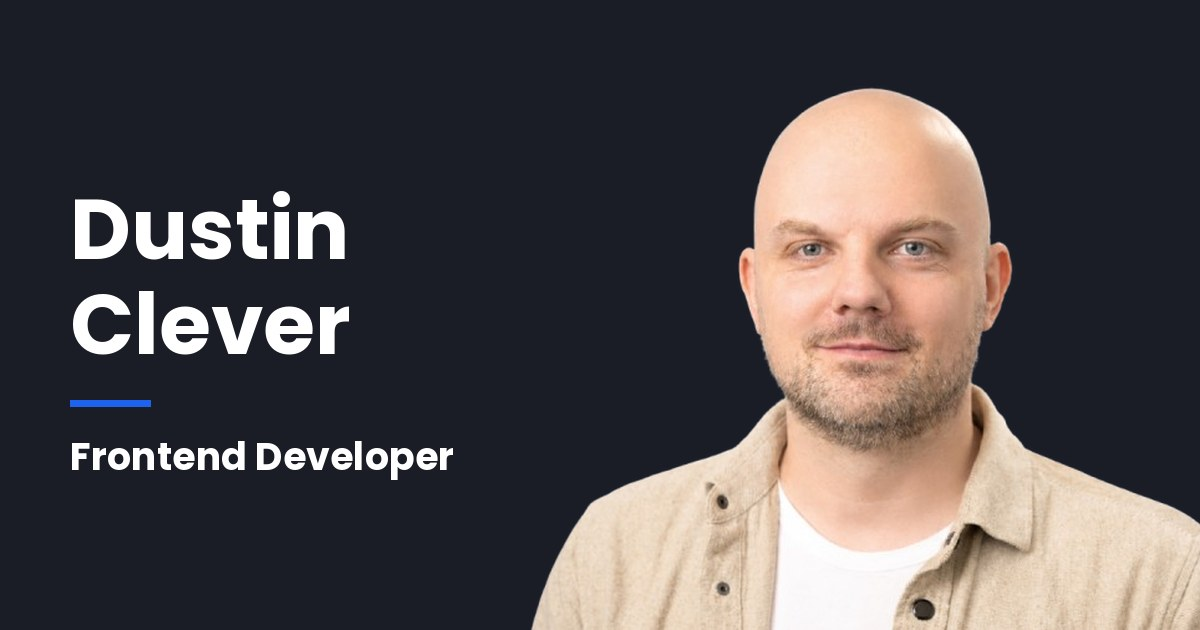
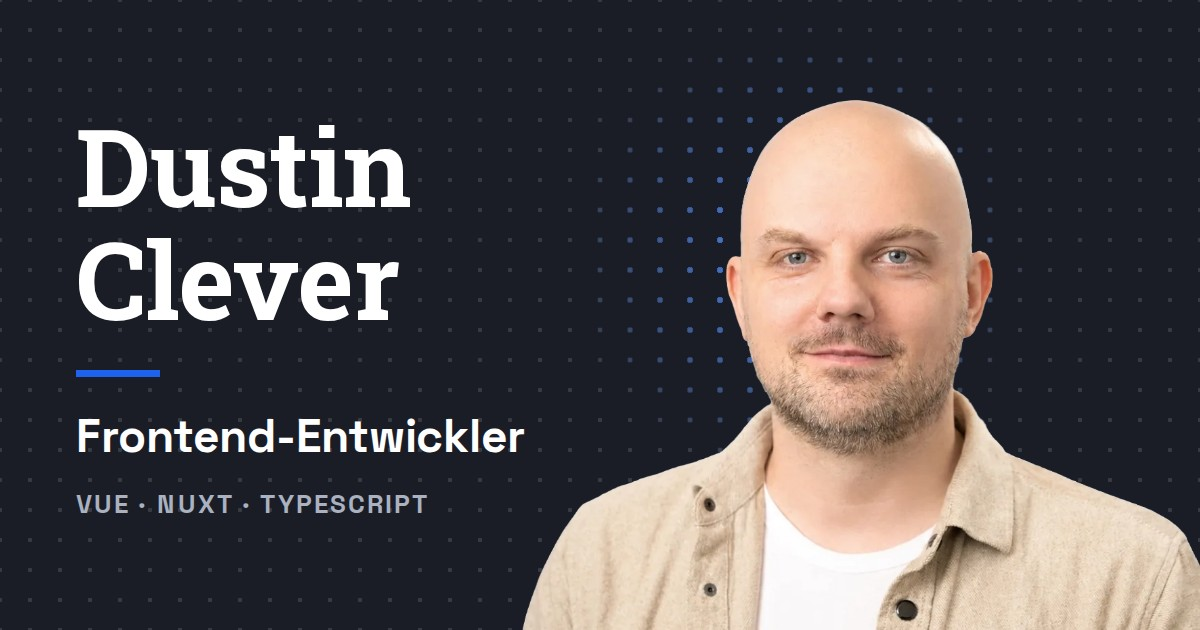
Redesign social preview images, add work preferences to contact section

diff --git a/tests/seo-head.test.ts b/tests/seo-head.test.ts
@@ -1,5 +1,5 @@
 import { describe, expect, it } from 'vitest'
-import { robotsContent, pageUrl, absoluteUrl, headLinks, normalizeBase, personSchema, socialImage } from '../app/utils/seo'
+import { robotsContent, pageUrl, absoluteUrl, headLinks, normalizeBase, socialImagePath, socialImage, structuredData } from '../app/utils/seo'
 
 const paths = { de: '/impressum', en: '/en/legal-notice' }
 
@@ -20,19 +20,34 @@ describe('SEO-Helfer', () => {
     expect(links[3]!.href).toBe('https://example.com/impressum')
   })
 
-  it('baut die Strukturdaten mit und ohne Domain, LinkedIn und GitHub', () => {
-    const full = personSchema({ base: 'https://example.com', lang: 'de', paths, role: 'Frontend Developer', email: 'a@b.de', linkedinUrl: 'https://li' })
-    expect(full.url).toBe('https://example.com/impressum')
-    expect(full.image).toBe('https://example.com/images/og-image.jpg')
-    expect(full.sameAs).toEqual(['https://li'])
-    const both = personSchema({ base: '', lang: 'de', paths, role: 'Frontend Developer', email: 'a@b.de', linkedinUrl: 'https://li', githubUrl: 'https://gh' })
-    expect(both.sameAs).toEqual(['https://li', 'https://gh'])
-    const onlyGithub = personSchema({ base: '', lang: 'de', paths, role: 'Frontend Developer', email: 'a@b.de', githubUrl: 'https://gh' })
-    expect(onlyGithub.sameAs).toEqual(['https://gh'])
-    const minimal = personSchema({ base: '', lang: 'de', paths, role: 'Frontend Developer', email: 'a@b.de' })
-    expect(minimal).not.toHaveProperty('url')
-    expect(minimal).not.toHaveProperty('sameAs')
-    expect(minimal.jobTitle).toBe('Frontend Developer')
+  it('baut Person und Website als Graph mit Domain, LinkedIn und GitHub', () => {
+    const full = structuredData({ base: 'https://example.com', lang: 'de', homePath: '/', role: 'Frontend-Entwickler', email: 'a@b.de', linkedinUrl: 'https://li', githubUrl: 'https://gh' })
+    expect(full['@context']).toBe('https://schema.org')
+    const [person, website] = full['@graph'] as Record<string, unknown>[]
+    expect(person).toEqual({
+      '@type': 'Person',
+      '@id': 'https://example.com/#person',
+      name: 'Dustin Clever',
+      jobTitle: 'Frontend-Entwickler',
+      email: 'a@b.de',
+      url: 'https://example.com/',
+      image: 'https://example.com/images/og-image.jpg',
+      sameAs: ['https://li', 'https://gh']
+    })
+    expect(website).toEqual({ '@type': 'WebSite', name: 'Dustin Clever', url: 'https://example.com/', inLanguage: 'de', publisher: { '@id': 'https://example.com/#person' } })
+  })
+
+  it('nutzt auf der englischen Startseite das englische Bild und die englische Adresse', () => {
+    const [person, website] = structuredData({ base: 'https://example.com', lang: 'en', homePath: '/en', role: 'Frontend Developer', email: 'a@b.de' })['@graph'] as Record<string, unknown>[]
+    expect(person!.image).toBe('https://example.com/images/og-image-en.jpg')
+    expect(person!.url).toBe('https://example.com/en')
+    expect(website!.inLanguage).toBe('en')
+  })
+
+  it('lässt ohne Domain URL, Bild, Website und leere Profile weg und behält nur sichtbare Angaben', () => {
+    const graph = structuredData({ base: '', lang: 'de', homePath: '/', role: 'Frontend-Entwickler', email: 'a@b.de', githubUrl: 'https://gh' })['@graph'] as Record<string, unknown>[]
+    expect(graph).toHaveLength(1)
+    expect(graph[0]).toEqual({ '@type': 'Person', name: 'Dustin Clever', jobTitle: 'Frontend-Entwickler', email: 'a@b.de', sameAs: ['https://gh'] })
   })
 
   it('setzt Rechtstexte auf noindex und alle anderen Seiten auf index', () => {
@@ -40,8 +55,10 @@ describe('SEO-Helfer', () => {
     expect(robotsContent(false)).toBe('index, follow')
   })
 
-  it('wählt das Vorschaubild passend zur Domain', () => {
+  it('wählt das Vorschaubild passend zu Domain und Sprache', () => {
     expect(socialImage('https://example.com')).toEqual({ image: 'https://example.com/images/og-image.jpg', width: 1200, height: 630, card: 'summary_large_image' })
+    expect(socialImage('https://example.com', 'en').image).toBe('https://example.com/images/og-image-en.jpg')
     expect(socialImage('')).toEqual({ image: undefined, width: undefined, height: undefined, card: 'summary' })
+    expect(socialImagePath('de')).toBe('/images/og-image.jpg')
   })
 })

diff --git a/scripts/og-image.html b/scripts/og-image.html
@@ -1,0 +1,49 @@
+<!doctype html>
+<html lang="de">
+<head>
+  <meta charset="utf-8" />
+  <title>Social Preview</title>
+  <!-- Vorlage für public/images/og-image.jpg (Deutsch) und og-image-en.jpg (?lang=en). Erzeugen: npm run og-image -->
+  <style>
+    @font-face { font-family: 'Roboto Slab'; src: url('../public/fonts/roboto-slab-latin.woff2') format('woff2'); font-weight: 500 700; }
+    @font-face { font-family: 'Space Grotesk'; src: url('../public/fonts/space-grotesk-latin.woff2') format('woff2'); font-weight: 400 700; }
+    :root { --bg: #1a1d26; --text: #fff; --muted: #aab1c0; --blue: #1d63f0; --blue-light: #4f8cff; }
+    * { box-sizing: border-box; margin: 0; }
+    body { width: 1200px; height: 630px; overflow: hidden; background: var(--bg); color: var(--text); font-family: 'Space Grotesk', sans-serif; }
+    .card { position: relative; width: 100%; height: 100%; }
+    /* Punktraster wie im Hero: ruhige Punkte weiß, dort wo der Mauszeiger wäre blau */
+    .dots, .dots--active { position: absolute; inset: 0; background-size: 30px 30px; background-position: 15px 15px; }
+    .dots { background-image: radial-gradient(circle, rgb(255 255 255 / 0.13) 2px, transparent 2.5px); }
+    .dots--active {
+      background-image: radial-gradient(circle, var(--blue-light) 3px, transparent 3.5px);
+      -webkit-mask-image: radial-gradient(circle 230px at 800px 250px, #000 0%, transparent 100%);
+      mask-image: radial-gradient(circle 230px at 800px 250px, #000 0%, transparent 100%);
+    }
+    .portrait { position: absolute; right: -24px; bottom: 0; height: 548px; width: auto; }
+    .text { position: absolute; left: 76px; top: 0; bottom: 0; display: flex; flex-direction: column; justify-content: center; }
+    h1 { font-family: 'Roboto Slab', serif; font-weight: 700; font-size: 108px; line-height: 1.04; letter-spacing: -0.01em; }
+    .bar { width: 84px; height: 7px; margin: 36px 0 30px; background: var(--blue); }
+    .role { font-size: 46px; font-weight: 700; }
+    .stack { margin-top: 22px; color: var(--muted); font-size: 26px; font-weight: 700; letter-spacing: 0.08em; text-transform: uppercase; }
+  </style>
+</head>
+<body>
+  <div class="card">
+    <div class="dots"></div>
+    <div class="dots--active"></div>
+    <img class="portrait" src="../public/images/portrait.webp" alt="" />
+    <div class="text">
+      <h1>Dustin<br />Clever</h1>
+      <div class="bar"></div>
+      <p class="role" id="role">Frontend-Entwickler</p>
+      <p class="stack">Vue · Nuxt · TypeScript</p>
+    </div>
+  </div>
+  <script>
+    if (new URLSearchParams(location.search).get('lang') === 'en') {
+      document.documentElement.lang = 'en'
+      document.getElementById('role').textContent = 'Frontend Developer'
+    }
+  </script>
+</body>
+</html>

diff --git a/app/utils/seo.ts b/app/utils/seo.ts
@@ -24,24 +24,30 @@ export function headLinks(base: string, lang: Lang, paths: PathMap) {
 /** Rechtstexte sollen erreichbar, aber nicht in den Suchergebnissen sein. */
 export const robotsContent = (isLegal: boolean) => (isLegal ? 'noindex, follow' : 'index, follow')
 
-/** Strukturierte Daten (schema.org/Person); URL, Bild und Profile (LinkedIn, GitHub) nur, wenn bekannt. */
-export function personSchema(options: { base: string; lang: Lang; paths: PathMap; role: string; email: string; linkedinUrl?: string; githubUrl?: string }) {
-  const { base, lang, paths, role, email, linkedinUrl, githubUrl } = options
+/** Vorschaubild je Sprache (Deutsch: og-image.jpg, Englisch: og-image-en.jpg), erzeugt mit `npm run og-image`. */
+export const socialImagePath = (lang: Lang) => (lang === 'en' ? '/images/og-image-en.jpg' : '/images/og-image.jpg')
+
+/** Person und Website als ein Graph (schema.org). Nur Angaben, die auch sichtbar auf der Seite stehen; URL, Bild und Profile nur, wenn bekannt. */
+export function structuredData(options: { base: string; lang: Lang; homePath: string; role: string; email: string; linkedinUrl?: string; githubUrl?: string }) {
+  const { base, lang, homePath, role, email, linkedinUrl, githubUrl } = options
   const profiles = [linkedinUrl, githubUrl].filter(Boolean)
-  return {
-    '@context': 'https://schema.org',
+  const url = base ? absoluteUrl(base, homePath) : undefined
+  const person = {
     '@type': 'Person',
+    ...(url ? { '@id': `${url}#person` } : {}),
     name: 'Dustin Clever',
     jobTitle: role,
     email,
-    ...(base ? { url: absoluteUrl(base, paths[lang]), image: absoluteUrl(base, '/images/og-image.jpg') } : {}),
+    ...(url ? { url, image: absoluteUrl(base, socialImagePath(lang)) } : {}),
     ...(profiles.length ? { sameAs: profiles } : {})
   }
+  const website = url ? [{ '@type': 'WebSite', name: 'Dustin Clever', url, inLanguage: lang, publisher: { '@id': `${url}#person` } }] : []
+  return { '@context': 'https://schema.org', '@graph': [person, ...website] }
 }
 
 /** Vorschaubild für soziale Netzwerke; ohne Domain gibt es keine absolute Bild-URL. */
-export function socialImage(base: string) {
-  const image = base ? absoluteUrl(base, '/images/og-image.jpg') : undefined
+export function socialImage(base: string, lang: Lang = 'de') {
+  const image = base ? absoluteUrl(base, socialImagePath(lang)) : undefined
   return {
     image,
     width: image ? 1200 : undefined,

diff --git a/app/app.vue b/app/app.vue
@@ -1,25 +1,30 @@
 <script setup lang="ts">
-const { lang, t, paths, legal, isNotFound, noindex, isPatterns } = useLang()
+const { lang, t, paths, legal, isNotFound, noindex, isPatterns, isHome } = useLang()
 const pageTitle = computed(() =>
   legal.value ? t.value[legal.value].metaTitle : isPatterns.value ? t.value.patterns.metaTitle : isNotFound.value ? t.value.notFound.metaTitle : t.value.meta.title
 )
 const { siteUrl, linkedinUrl, githubUrl, contactEmail } = useRuntimeConfig().public
 const base = normalizeBase(siteUrl)
-const social = socialImage(base)
+const social = computed(() => socialImage(base, lang.value))
 
 useHead({
   htmlAttrs: { lang: computed(() => lang.value) },
   title: pageTitle,
   link: computed(() => headLinks(isNotFound.value ? '' : base, lang.value, paths.value)), // die Fehlerseite hat keine Canonical-Adresse
-  script: [
+  script: computed(() => [
     { innerHTML: themeScript }, // setzt das Theme, bevor die Seite gezeichnet wird
-    {
-      type: 'application/ld+json',
-      innerHTML: computed(() =>
-        JSON.stringify(personSchema({ base, lang: lang.value, paths: paths.value, role: t.value.hero.role, email: contactEmail, linkedinUrl, githubUrl }))
-      )
-    }
-  ]
+    // Strukturierte Daten nur auf der Startseite, denn sie beschreiben die Person und die Website, nicht die Unterseiten
+    ...(isHome.value
+      ? [
+          {
+            type: 'application/ld+json',
+            innerHTML: JSON.stringify(
+              structuredData({ base, lang: lang.value, homePath: paths.value[lang.value], role: t.value.hero.role, email: contactEmail, linkedinUrl, githubUrl })
+            )
+          }
+        ]
+      : [])
+  ])
 })
 
 useSeoMeta({
@@ -31,12 +36,12 @@ useSeoMeta({
   ogLocale: () => (lang.value === 'en' ? 'en_US' : 'de_DE'),
   ogLocaleAlternate: () => (lang.value === 'en' ? 'de_DE' : 'en_US'),
   ogUrl: () => pageUrl(base, paths.value[lang.value]),
-  ogImage: social.image,
-  ogImageWidth: social.width,
-  ogImageHeight: social.height,
+  ogImage: () => social.value.image,
+  ogImageWidth: () => social.value.width,
+  ogImageHeight: () => social.value.height,
   ogImageAlt: () => t.value.hero.imageAlt,
-  twitterCard: social.card,
-  twitterImage: social.image
+  twitterCard: () => social.value.card,
+  twitterImage: () => social.value.image
 })
 </script>
 

diff --git a/app/data/profile.ts b/app/data/profile.ts
@@ -40,7 +40,7 @@ export interface Content {
   experience: { title: string; workTitle: string; educationTitle: string; jobs: Job[]; education: Edu[] }
   skills: { title: string; groups: SkillGroup[] }
   work: { title: string; intro: string; projects: Project[] }
-  contact: { title: string; text: string; mail: string; linkedin: string; github: string; cvDe: string; cvEn: string }
+  contact: { title: string; text: string; availability: string; mail: string; linkedin: string; github: string; cvDe: string; cvEn: string }
   footer: { built: string; imprint: string; privacy: string; patterns: string }
   patterns: PatternsContent
   notFound: {
@@ -300,6 +300,7 @@ export const content: Record<Lang, Content> = {
     contact: {
       title: 'Kontakt',
       text: 'Du suchst Verstärkung im Frontend? Schreib mir gerne kurz, worum es geht.',
+      availability: 'Köln & Umgebung · Hybrid / On-site · Remote deutschlandweit',
       mail: 'E-Mail schreiben',
       linkedin: 'LinkedIn',
       github: 'GitHub',
@@ -609,6 +610,7 @@ export const content: Record<Lang, Content> = {
     contact: {
       title: 'Contact',
       text: 'Looking for frontend support? Feel free to send me a short note about what you need.',
+      availability: 'Cologne area · Hybrid / on-site · Remote across Germany',
       mail: 'Send an email',
       linkedin: 'LinkedIn',
       github: 'GitHub',

diff --git a/app/components/ContactSection.vue b/app/components/ContactSection.vue
@@ -6,6 +6,7 @@ const { contactEmail, linkedinUrl, githubUrl } = useRuntimeConfig().public
 <template>
   <BaseSection id="contact" :title="t.contact.title" alt>
     <p class="section__intro">{{ t.contact.text }}</p>
+    <p class="contact__availability">{{ t.contact.availability }}</p>
     <div>
       <a class="contact__mail text-link" :href="`mailto:${contactEmail}`">
         <span class="text-link__label">{{ contactEmail }}</span>
@@ -40,6 +41,12 @@ const { contactEmail, linkedinUrl, githubUrl } = useRuntimeConfig().public
 $contact-mail-font-size: clamp(1.4rem, 4.5vw, 3.25rem);
 $contact-links-gap: 1.75rem;
 .contact {
+  &__availability {
+    margin: (-$space-5) 0 $space-6;
+    color: var(--muted);
+    font-size: $font-sm;
+  }
+
   &__mail {
     --underline: 0.25rem;
 

diff --git a/tests/components/ContactSection.test.ts b/tests/components/ContactSection.test.ts
@@ -10,6 +10,13 @@ describe('ContactSection', () => {
     expect(mail.attributes('href')).toBe('mailto:dustin.clever@googlemail.com')
   })
 
+  it('nennt Region und Arbeitsmodelle in beiden Sprachen', async () => {
+    const de = await mountSuspended(ContactSection, { route: '/' })
+    expect(de.get('.contact__availability').text()).toBe('Köln & Umgebung · Hybrid / On-site · Remote deutschlandweit')
+    const en = await mountSuspended(ContactSection, { route: '/en' })
+    expect(en.get('.contact__availability').text()).toBe('Cologne area · Hybrid / on-site · Remote across Germany')
+  })
+
   it('verlinkt beide Lebenslauf-PDFs', async () => {
     const wrapper = await mountSuspended(ContactSection)
     const hrefs = wrapper.findAll('a').map((a) => a.attributes('href'))

diff --git a/README.md b/README.md
@@ -16,7 +16,7 @@ npm run typecheck
 - `app/pages/index.vue` (`/`, Deutsch) und `app/pages/en/index.vue` (`/en`, Englisch)
 - `app/components/` – ein Block pro Komponente, Klassen nach BEM (`block__element--modifier`)
 - `app/assets/scss/main.scss` – Design Tokens, Reset und globale Blöcke (`section`, `button`, `text-link`)
-- `public/images/portrait.webp` – freigestelltes Porträt (WebP mit Transparenz). Beim Austauschen `width`/`height` in `HeroSection.vue` an das neue Seitenverhältnis anpassen. `og-image.jpg` ist das Social-Preview-Bild (1200×630).
+- `public/images/portrait.webp` – freigestelltes Porträt (WebP mit Transparenz). Beim Austauschen `width`/`height` in `HeroSection.vue` an das neue Seitenverhältnis anpassen. `og-image.jpg` (Deutsch) und `og-image-en.jpg` (Englisch) sind die Social-Preview-Bilder (1200×630). Sie entstehen aus der Vorlage `scripts/og-image.html`; nach Änderungen an Vorlage oder Porträt mit `npm run og-image` neu erzeugen.
 - `app/router.options.ts` – Scrollen zu Ankern (fixierter Header, reduzierte Bewegung); `app/utils/focusSection.ts` setzt den Fokus in den Zielabschnitt
 
 ## 404-Seite
